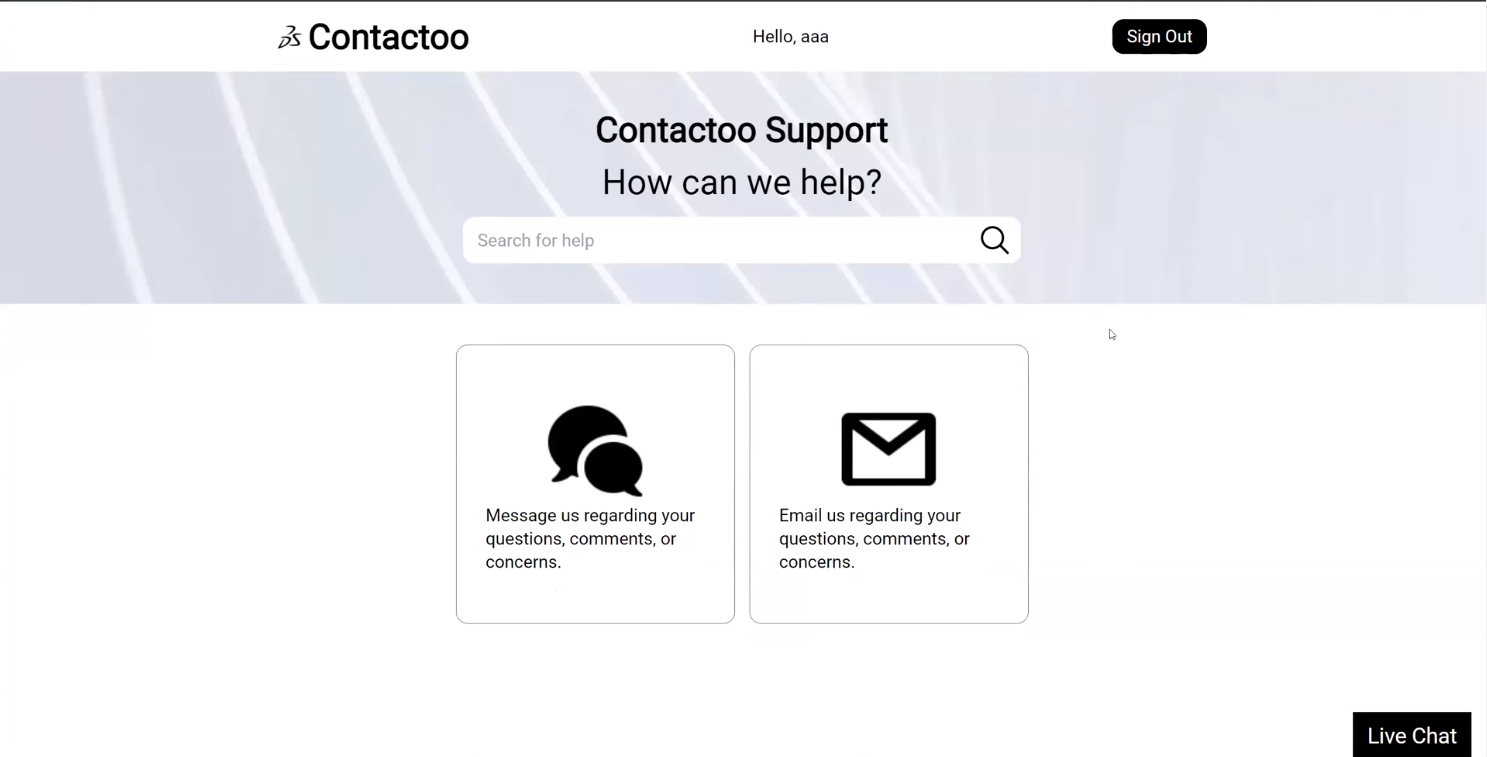
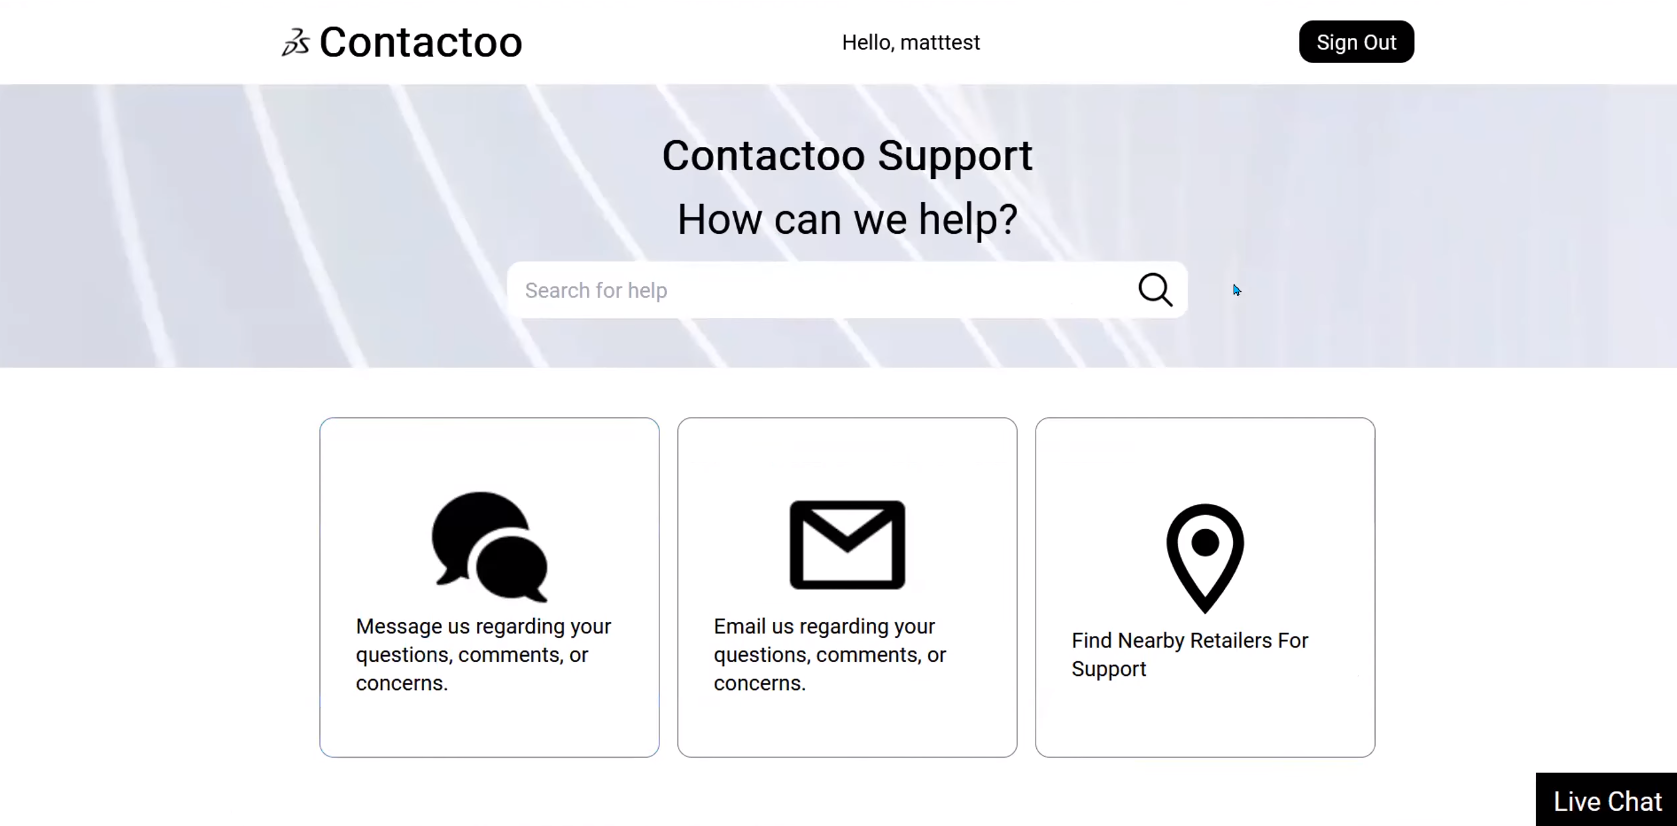
add demo images

diff --git a/README.md b/README.md
@@ -1,20 +1,57 @@
 # Contactoo
 
-Contactoo is a customer service website featuring live chat with an AI chatbot, emailing, and SMS messaging.
+Contactoo is a customer service website where you can live chat with an AI chatbot, talk to a representitive, email or send an SMS message to the retailer, and find a nearby retailers on Google Maps.
 
 ## Sign In Page
 
-![Sign In](./images/signin.PNG)
+![Sign In](images/signin.PNG)
 
-## Home Page
+## Home Page (Signed in as a *customer*)
 
-![Home Page](./images/homepage.PNG)
+![Home Page](images/homepage.PNG)
+
+
+## Home Page/Ticket Page (Signed in as a *retailer/admin*)
+
+![](images/signin_retailer.PNG)
+
+## Live Chat 
+
+### To alleviate the workload of the representatives/retailers, we implemented an AI chatbot to handle the basic queries from the user:
+
+![](images/chatbot1.PNG)
+
+![](images/chatbot2.PNG)
+
+### The user can ask to talk to a human representative:
+
+![](images/chatbot3.PNG)
+
+![](images/chatbot4.PNG)
+
+### The representative/retailer can manage multiple tickets/user requests and reply to the customers:
+
+![](images/adminchat1.PNG)
+
+![](images/adminchat2.PNG)
+
+## Email the Retailer
+
+![](images/email.PNG)
+
+## Send an SMS Message to the Retailer
+
+![](images/sms.PNG)
+
+## Find a Retailer on Google Maps
+
+![](images/findretailer.PNG)
 
 ## Video Demo
 
-[A bit rushed video demo](https://youtu.be/UJcYY58Rsu4?si=JjmcvJ2U8_n86sxR)
+[A **very rushed** video demo *(there was a time limit)*](https://youtu.be/UJcYY58Rsu4?si=JjmcvJ2U8_n86sxR)
 
 ## Tech Stack
 
 * **Frontend**: Next.js, TailwindCSS
-* **Backend**: AWS (Amplify, Cognito, GraphQL, DynamoDB)
+* **Backend**: AWS (Amplify, Cognito, GraphQL, DynamoDB, Amazon Lex)
